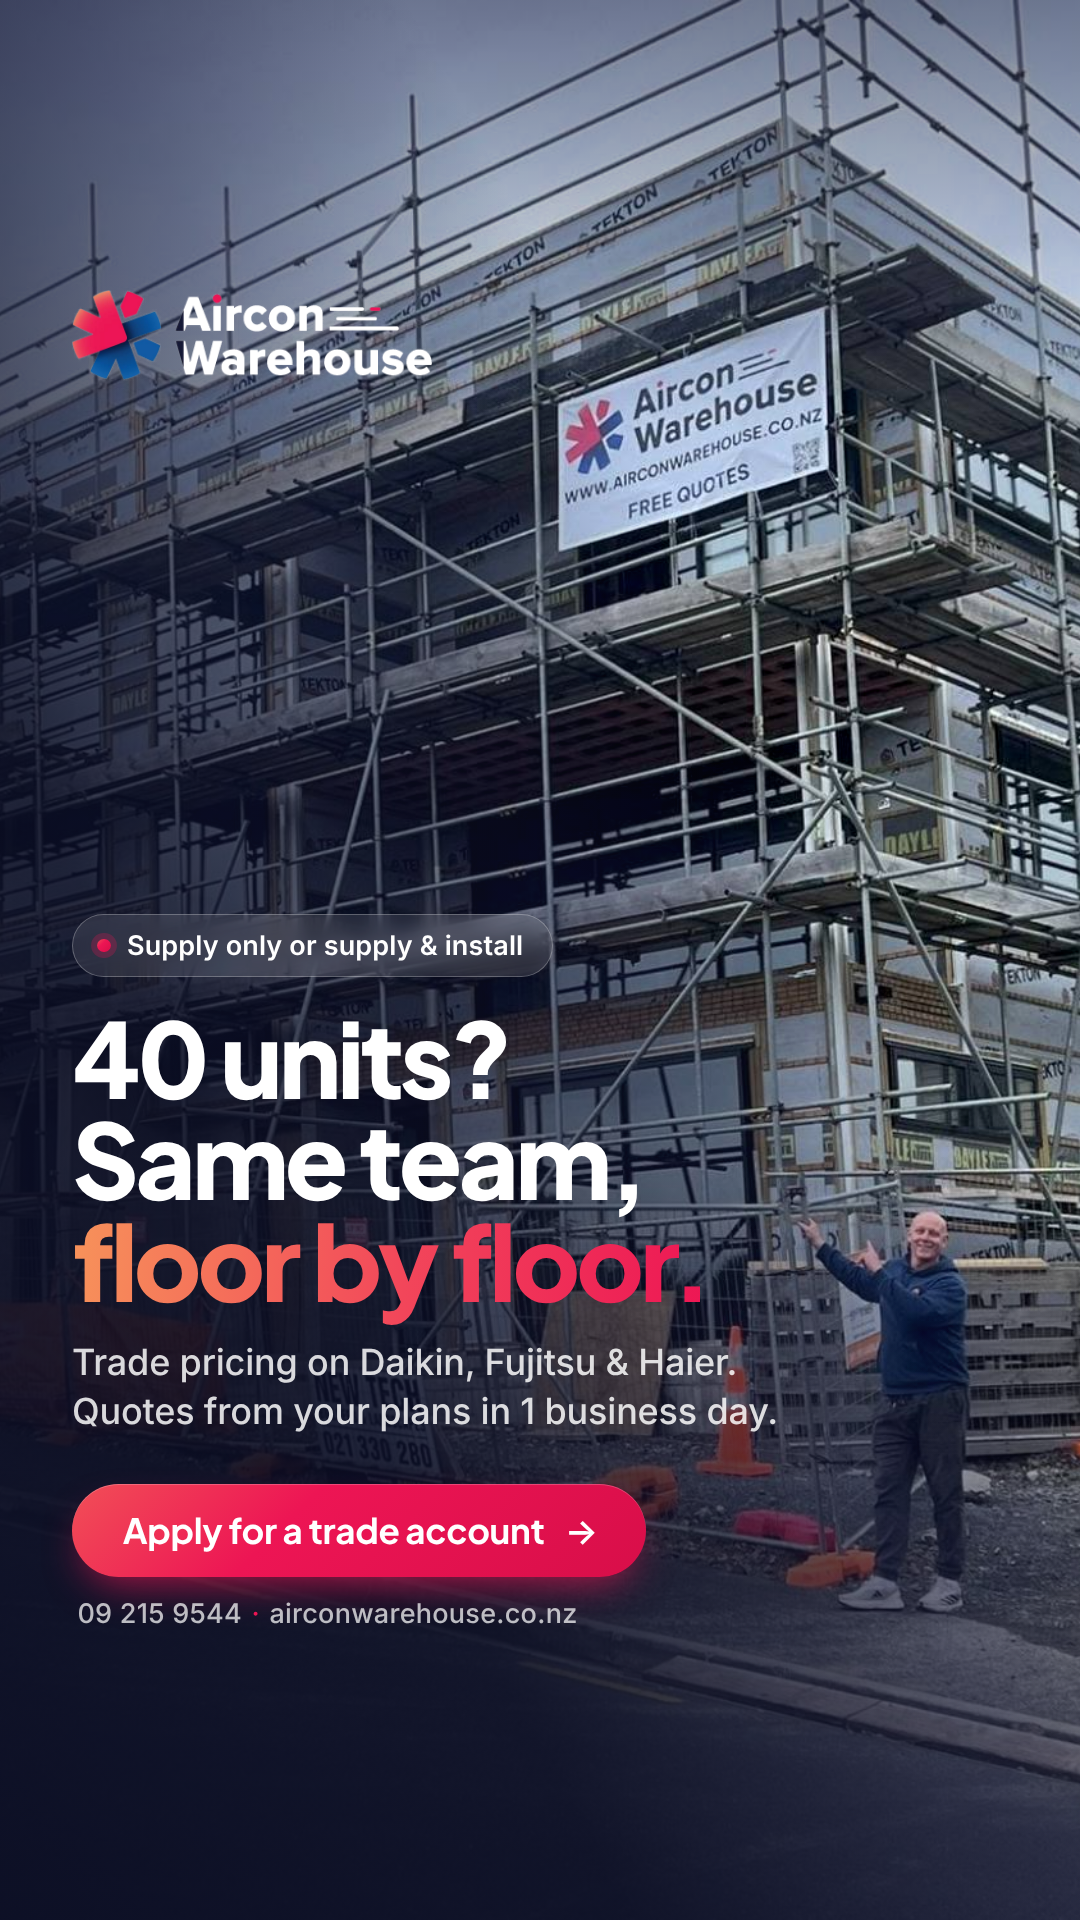
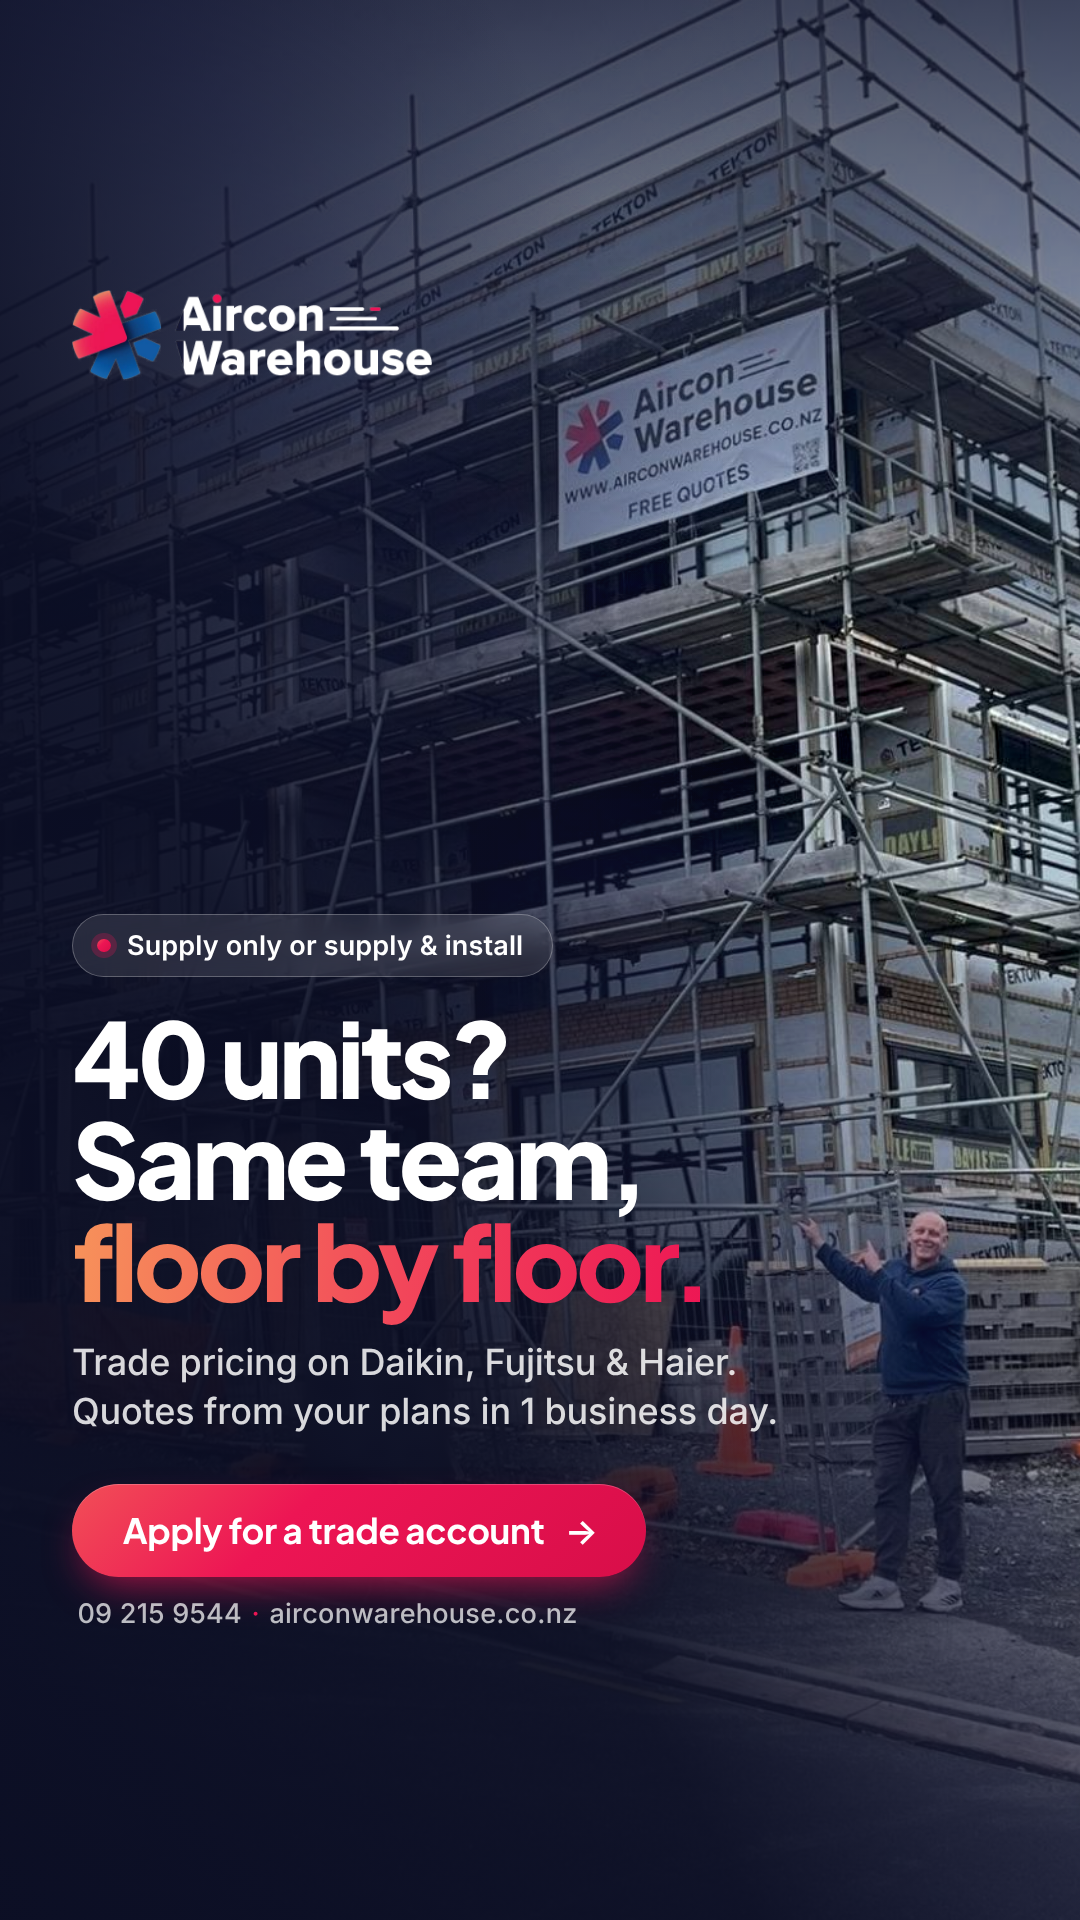
Aircon Warehouse: final Meta trade-partner ad creatives
Three concepts (builders, property managers, trades) in 4:5, 1:1 and 9:16,
with HTML sources, a render script and a README.

Claude-Session: https://claude.ai/code/session_01FRoATqmjtq9wK4eJnpCEK9

diff --git a/clients/aircon-warehouse/ads/src/ads.css b/clients/aircon-warehouse/ads/src/ads.css
@@ -48,7 +48,8 @@ body { font-family: var(--font-body); color: #fff; -webkit-font-smoothing: antia
 .ad { position: relative; width: var(--W); height: var(--H); overflow: hidden; background: var(--navy); isolation: isolate; }
 
 /* Photo: object-position and zoom come from the concept file, per size */
-.photo { position: absolute; inset: 0; z-index: 0; overflow: hidden; }
+.photo { position: absolute; top: var(--photo-top, 0); left: 0; right: 0; height: var(--photo-h, 100%); z-index: 0; overflow: hidden;
+  -webkit-mask-image: var(--photo-mask, none); mask-image: var(--photo-mask, none); }
 .photo img {
   width: 100%; height: 100%; object-fit: cover; display: block;
   object-position: var(--obj-pos, 50% 50%);
@@ -71,9 +72,9 @@ html.story .shade { --top-veil-end: 26%; }
 /* Brand asterisk as a faint motif behind the copy */
 .motif { position: absolute; z-index: 1; pointer-events: none;
   width: var(--motif-w, 520px); right: var(--motif-r, -150px); bottom: var(--motif-b, -150px);
-  opacity: var(--motif-o, .11); transform: rotate(-8deg); }
+  opacity: var(--motif-o, .08); transform: rotate(-8deg); }
 html.square .motif { --motif-w: 440px; --motif-r: -130px; --motif-b: -130px; }
-html.story .motif { --motif-w: 600px; --motif-r: -170px; --motif-b: 110px; }
+html.story .motif { --motif-w: 600px; --motif-r: -190px; --motif-b: -120px; }
 
 .logo { position: absolute; z-index: 3; top: var(--pad-top); left: var(--pad-x); width: var(--logo-w); height: auto; display: block; }
 
@@ -97,6 +98,7 @@ h1 .accent { background: var(--grad-accent); -webkit-background-clip: text; back
   color: rgba(255, 255, 255, .84); max-width: var(--sub-max); text-wrap: balance; }
 /* Pull the full stop in: Jakarta's period has a wide side bearing next to tight tracking */
 h1 .stop { margin-left: -.05em; }
+h1 .nowrap { white-space: nowrap; }
 
 .cta { margin-top: var(--cta-gap); display: flex; flex-direction: column; align-items: flex-start; gap: .78em; font-size: var(--contact-fs); }
 .btn { display: inline-flex; align-items: center; gap: .55em;

diff --git a/clients/aircon-warehouse/ads/src/trade-ad-trades.html b/clients/aircon-warehouse/ads/src/trade-ad-trades.html
@@ -16,15 +16,19 @@
 <link href="https://fonts.googleapis.com/css2?family=Inter:wght@500;600&family=Plus+Jakarta+Sans:wght@700;800&display=block" rel="stylesheet">
 <link rel="stylesheet" href="ads.css">
 <style>
-/* Concept C: technician at the outdoor unit. Keep his face and hands in frame. */
-html.feed   { --obj-pos: 20% 0%; --zoom: 1; }
-html.square { --obj-pos: 20% 0%; --zoom: 1; }
-html.story  { --obj-pos: 24% 0%; --zoom: 1; }
+/* Concept C: clean indoor high-wall unit. The photo only fills the top of the frame and fades
+   into the navy, so the unit sits in the upper half and the copy has a quiet field below. */
+:root { --photo-mask: linear-gradient(to bottom, #000 72%, transparent 100%); --top-veil: .62; --top-veil-end: 24%; }
+html.feed   { --photo-h: 860px;  --obj-pos: 100% 0%; }
+html.square { --photo-h: 720px;  --obj-pos: 70% 0%; }
+/* story: drop the photo below the logo so the white unit never sits behind it; fade it in at the top too */
+html.story  { --photo-top: 400px; --photo-h: 820px; --obj-pos: 75% 0%;
+  --photo-mask: linear-gradient(to bottom, transparent 0%, #000 22%, #000 68%, transparent 100%); }
 </style>
 </head>
 <body>
 <main class="ad">
-  <div class="photo"><img src="img/technician.jpg" alt="Technician checking an outdoor heat pump unit with gauges"></div>
+  <div class="photo"><img src="img/indoor-unit.jpg" alt="Clean white high-wall heat pump unit mounted below a ceiling"></div>
   <div class="shade"></div>
   <img class="motif" src="img/logo-mark.png" alt="">
   <img class="logo" src="img/logo-full-white.png" alt="Aircon Warehouse">

diff --git a/clients/aircon-warehouse/ads/src/trade-ad-builders.html b/clients/aircon-warehouse/ads/src/trade-ad-builders.html
@@ -19,10 +19,16 @@
 /* Concept A: real apartment-build photo. Darren and the banner sit on the right, copy on the left,
    so the shade comes in from the bottom-left corner instead of straight up. */
 .shade { background:
-  linear-gradient(62deg, rgba(11,14,36,.96) 0%, rgba(11,14,36,.88) 30%, rgba(17,20,51,.45) 52%, rgba(17,20,51,0) 68%),
+  linear-gradient(62deg, rgba(11,14,36,.97) 0%, rgba(11,14,36,.9) 34%, rgba(17,20,51,.5) 54%, rgba(17,20,51,0) 70%),
   linear-gradient(to top, rgba(11,14,36,.55) 0%, rgba(11,14,36,0) 40%),
   linear-gradient(to bottom, rgba(11,14,36,.5) 0%, rgba(11,14,36,0) 22%); }
 .motif { display: none; }
+/* story is tall, so the diagonal runs out sooner: add a left-side veil and a deeper top veil for the logo */
+html.story .shade { background:
+  linear-gradient(62deg, rgba(11,14,36,.97) 0%, rgba(11,14,36,.9) 36%, rgba(17,20,51,.5) 56%, rgba(17,20,51,0) 72%),
+  linear-gradient(to right, rgba(11,14,36,.5) 0%, rgba(11,14,36,0) 72%),
+  linear-gradient(to top, rgba(11,14,36,.55) 0%, rgba(11,14,36,0) 30%),
+  linear-gradient(to bottom, rgba(11,14,36,.75) 0%, rgba(11,14,36,.35) 22%, rgba(11,14,36,0) 34%); }
 html.feed   { --obj-pos: 52% 0%; --h1-fs: 88px; --sub-max: 700px; }
 html.square { --obj-pos: 26% 0%; --h1-fs: 74px; --sub-max: 640px; }
 html.story  { --obj-pos: 66% 0%; --h1-fs: 104px; --sub-max: 720px; }

diff --git a/clients/aircon-warehouse/ads/src/trade-ad-property.html b/clients/aircon-warehouse/ads/src/trade-ad-property.html
@@ -17,9 +17,9 @@
 <link rel="stylesheet" href="ads.css">
 <style>
 /* Concept B: living room with the high-wall unit on the dark feature wall. */
-html.feed   { --obj-pos: 66% 0%; --zoom: 1; }
-html.square { --obj-pos: 66% 0%; --zoom: 1; }
-html.story  { --obj-pos: 64% 0%; --zoom: 1; }
+html.feed   { --obj-pos: 66% 0%; --h1-fs: 88px; }
+html.square { --obj-pos: 66% 0%; --h1-fs: 72px; }
+html.story  { --obj-pos: 64% 0%; --h1-fs: 96px; --shade-solid: 28%; --shade-mid: 50%; --shade-end: 70%; }
 </style>
 </head>
 <body>
@@ -30,7 +30,7 @@ html.story  { --obj-pos: 64% 0%; --zoom: 1; }
   <img class="logo" src="img/logo-full-white.png" alt="Aircon Warehouse">
   <section class="copy">
     <span class="badge">Trade accounts &middot; Open 7 days</span>
-    <h1>Heat pumps for your whole portfolio<span class="stop">.</span> <span class="accent">One contact<span class="stop">.</span></span></h1>
+    <h1>Heat pumps for your whole portfolio<span class="stop">.</span><br><span class="accent nowrap">One contact<span class="stop">.</span></span></h1>
     <p class="sub">Sized for the living room, installed around your tenants, paperwork for the tenancy file.</p>
     <div class="cta">
       <span class="btn">Apply for a trade account <span class="arrow">&rarr;</span></span>

diff --git a/clients/aircon-warehouse/ads/src/prep-images.py b/clients/aircon-warehouse/ads/src/prep-images.py
@@ -1,0 +1,38 @@
+# Builds ads/src/img/ from clients/aircon-warehouse/assets/. Run: python3 prep-images.py
+from PIL import Image, ImageDraw, ImageFilter
+import shutil
+A='/home/user/leadhivenz-website/clients/aircon-warehouse/assets/'
+O='/home/user/leadhivenz-website/clients/aircon-warehouse/ads/src/img/'
+def debadge(src, dst, box, sample, pad=6):
+    im = Image.open(src).convert('RGB')
+    col = im.getpixel(sample)
+    patch = im.copy()
+    d = ImageDraw.Draw(patch)
+    d.ellipse(box, fill=col)
+    patch = patch.filter(ImageFilter.GaussianBlur(2))
+    import numpy as np
+    a = np.asarray(patch).astype(np.int16)
+    n = np.random.default_rng(1).normal(0, 3.5, a.shape[:2])[..., None]
+    patch = Image.fromarray(np.clip(a + n, 0, 255).astype(np.uint8))
+    mask = Image.new('L', im.size, 0)
+    ImageDraw.Draw(mask).ellipse((box[0]-pad, box[1]-pad, box[2]+pad, box[3]+pad), fill=255)
+    mask = mask.filter(ImageFilter.GaussianBlur(4))
+    im.paste(patch, (0,0), mask)
+    im.save(dst, quality=92)
+    return im
+debadge(A+'stock/living-room-heat-pump-1600.jpg', O+'living-room.jpg', (1066,132,1092,146), (1080,152), pad=4)
+# (apartment-build.jpg is written below with the sign softened)
+for f in ['logo-full-white.png','logo-mark.png']: shutil.copy(A+f, O+f)
+
+# Builders photo: soften the third-party site sign (another company's name and phone number)
+im = Image.open(A+'site-banner.jpg').convert('RGB')
+box = (1000, 1062, 1114, 1158)
+blur = im.filter(ImageFilter.GaussianBlur(7)).point(lambda v: int(v * .62))
+mask = Image.new('L', im.size, 0)
+ImageDraw.Draw(mask).rectangle(box, fill=255)
+mask = mask.filter(ImageFilter.GaussianBlur(3))
+im.paste(blur, (0, 0), mask)
+im.save(O+'apartment-build.jpg', quality=92)
+
+# Trades photo (coordinator swap): clean indoor high-wall unit, no brand badge visible
+shutil.copy(A+'stock/high-wall-unit-closeup-1600.jpg', O+'indoor-unit.jpg')

diff --git a/clients/aircon-warehouse/ads/README.md b/clients/aircon-warehouse/ads/README.md
@@ -1,0 +1,62 @@
+# Aircon Warehouse: trade-partner Meta ads (static images)
+
+There are three concepts, each in three sizes. Upload the 4:5 file as the main feed creative. Use the square file for placements that need 1:1, and the 9:16 file for Stories and Reels.
+The ad copy variants (A, B and C) are in `growth/content.md`, section 3. Pair each image with its variant in the same ad.
+
+Every image carries the white logo (top-left), a navy shade over the photo, a headline in white with one phrase in the coral gradient, a badge, a coral pill reading "Apply for a trade account", and the line "09 215 9544 · airconwarehouse.co.nz".
+None of them has ratings, accreditations, warranty years, prices, competitor names or emoji.
+
+## Files
+
+| File | Size / placement | Concept | Pairs with |
+|---|---|---|---|
+| trade-ad-builders-1080x1350.png | 4:5 feed (main) | A Builders & developers | Variant A |
+| trade-ad-builders-1080x1080.png | 1:1 square | A Builders & developers | Variant A |
+| trade-ad-builders-1080x1920.png | 9:16 story / reel | A Builders & developers | Variant A |
+| trade-ad-property-1080x1350.png | 4:5 feed (main) | B Property managers | Variant B |
+| trade-ad-property-1080x1080.png | 1:1 square | B Property managers | Variant B |
+| trade-ad-property-1080x1920.png | 9:16 story / reel | B Property managers | Variant B |
+| trade-ad-trades-1080x1350.png | 4:5 feed (main) | C Electricians, plumbers, trades | Variant C |
+| trade-ad-trades-1080x1080.png | 1:1 square | C Electricians, plumbers, trades | Variant C |
+| trade-ad-trades-1080x1920.png | 9:16 story / reel | C Electricians, plumbers, trades | Variant C |
+
+## Copy on each concept
+
+**A: Builders & developers** (`trade-ad-builders-*`)
+- Photo: the real apartment build under scaffolding, with Darren pointing at the Aircon Warehouse banner. Both stay clear of the copy in every size.
+- Badge: Supply only or supply & install
+- Headline: 40 units? Same team, **floor by floor.** (accent)
+- Sub: Trade pricing on Daikin, Fujitsu & Haier. Quotes from your plans in 1 business day.
+- Ad text to use: Variant A. Headline "Trade pricing on heat pumps. Quotes from your plans.", CTA Apply Now.
+
+**B: Property managers** (`trade-ad-property-*`)
+- Photo: a modern living room with a high-wall unit on a dark feature wall (stock placeholder).
+- Badge: Trade accounts · Open 7 days
+- Headline: Heat pumps for your whole portfolio. **One contact.** (accent)
+- Sub: Sized for the living room, installed around your tenants, paperwork for the tenancy file.
+- Ad text to use: Variant B. Headline "Portfolio pricing on heat pumps. One contact, every property.", CTA Apply Now.
+
+**C: Trades** (`trade-ad-trades-*`)
+- Photo: a clean white high-wall indoor unit (stock placeholder, `high-wall-unit-closeup`). The unit sits in the upper half and the copy sits on the quiet navy field below it.
+- Badge: Warehouse in Wiri · 7 days
+- Headline: Add heat pumps to **your jobs.** (accent)
+- Sub: Trade pricing on the unit. We install, or you do. One warranty contact.
+- Ad text to use: Variant C. Headline "Add heat pumps to your jobs. Trade pricing, 7 days.", CTA Apply Now.
+
+On every concept, the button reads "Apply for a trade account" and the footer reads "09 215 9544 · airconwarehouse.co.nz".
+
+## Specs and checks
+- The 9:16 files keep all text and the logo inside the middle 1080x1420 (y 250 to 1670). Logo top is at 290 and the copy ends at 1630. The top and bottom 250 px hold only photo or navy.
+- Text coverage, measured as the union of text line boxes, logo, badge and button, as a share of the frame: builders 18 to 19%, property 21 to 23%, trades 17 to 18%. All are under 25%.
+- Fonts: Plus Jakarta Sans 700/800 (headline and button) and Inter 500/600 (badge, sub, contact), loaded from Google Fonts. Colours come from `site/styles.css`: navy #111433, coral #ED1554 to sunset #F7935A, blue in the logo mark.
+
+## Photo edits (made in `src/prep-images.py`, originals untouched)
+- Apartment build (`assets/site-banner.jpg`): the "New Tech" builders' site sign, which shows another company's name and phone number, is blurred and dimmed.
+- Living room (`assets/stock/living-room-heat-pump-1600.jpg`): the small manufacturer logo on the indoor unit is painted out.
+- Indoor unit (`assets/stock/high-wall-unit-closeup-1600.jpg`): used as is. The only marking is a generic "INVERTER" label.
+- B and C use stock photos as placeholders (see `assets/stock/CREDITS.md`). Swap them for Darren's own job photos when he has them.
+
+## Editing and re-rendering
+- `src/trade-ad-builders.html`, `src/trade-ad-property.html` and `src/trade-ad-trades.html` hold one concept each. Open one with `?size=feed`, `?size=square` or `?size=story` to preview a size. Each file has a small `<style>` block for photo framing per size. The shared layout is in `src/ads.css`.
+- `node src/render.js` re-renders all nine PNGs into this folder. It uses Playwright from `/opt/node-tools`, an exact viewport, deviceScaleFactor 1, and waits for fonts. It also prints text coverage. Add `builders`, `property` or `trades` as an argument to render one concept.
+- `python3 src/prep-images.py` rebuilds `src/img/` from `assets/`.
